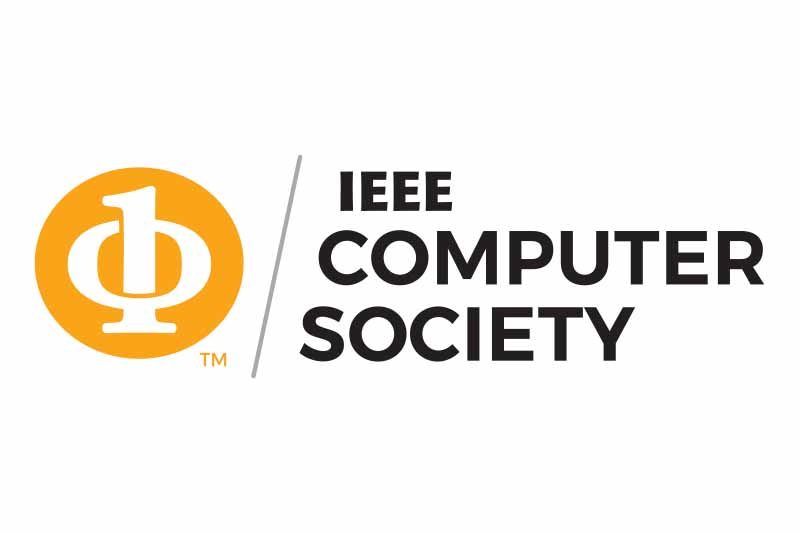
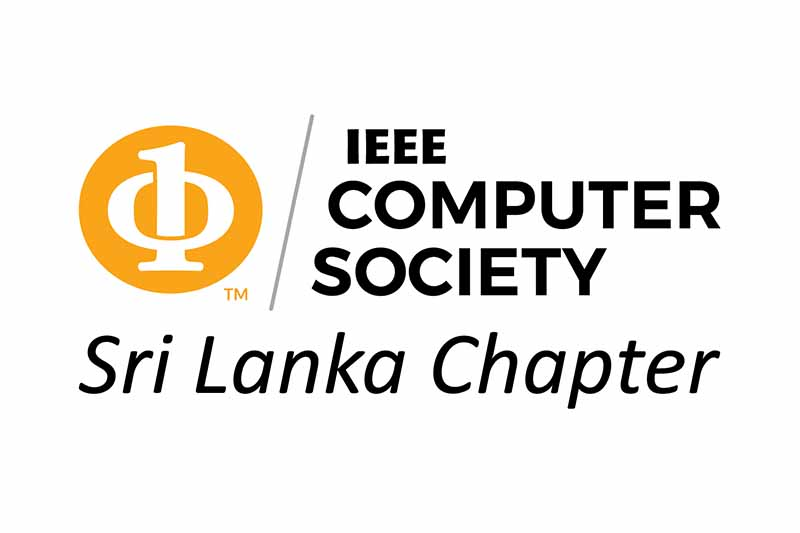
Partners updated

Changed region(s): [[0.0312, 0.2101, 0.9688, 0.7805]]

diff --git a/index.html b/index.html
@@ -4,7 +4,7 @@
 <head>
     <!-- Asela Pathirage -->
     <meta charset="utf-8" />
-    <title>IEEE Education Week - 2023</title>
+    <title>IEEE Education Week Sri Lanka - 2023</title>
     <meta name="viewport" content="width=device-width, initial-scale=1.0" />
     <meta name="description" content="IEEE Education Week - 2023" />
     <meta name="keywords" content="" />
@@ -171,7 +171,7 @@
                             data-textAlign="['center','center','center','center']" data-paddingtop="[0,0,0,0]"
                             data-paddingright="[0,0,0,0]" data-paddingbottom="[0,0,0,0]" data-paddingleft="[0,0,0,0]">
                             IEEE Education Week<br />
-                            2023
+                            Sri Lanka - 2023
                         </div>
 
                         <div class="text-center tp-caption size-20 text-white tp-static-layer"
@@ -280,38 +280,56 @@
                 <div class="spacer10"></div>
                 <div class="container">
                     <div class="row align-items-center justify-content-center">
-                        <div class="col-sm-12 mt-5 wow fadeInRight" data-wow-delay="0,5s">
-                            <h2 class="mt-3">Organized by</h2>
+                        <div class="col-md-9">
+                            <div class="row">
+                                <div class="col-sm-12 mt-5 wow fadeInRight" data-wow-delay="0.5s">
+                                    <h3 class="mt-3">Organized by</h3>
+                                </div>
+                                <div class="col-md-2  mb-sm-30 text-left wow fadeInLeft mb-2">
+                                    <a href="https://ieee.lk/" target="_blank"><img class=""
+                                            style="width:90%;border: 2px solid #006394;border-radius: 5px; "
+                                            src="images-event/misc/sac.jpg" alt="" />
+                                    </a>
+                                </div>
+                                <div class="col-md-2 mb-sm-30 text-left wow fadeInLeft mb-2" >
+                                    <a href="https://ieeeyp.lk/" target="_blank"><img class=""
+                                            style="width:90%;border: 2px solid #006394;border-radius: 5px; "
+                                            src="images-event/misc/yp.jpg" alt="" />
+                                    </a>
+                                </div>
+                                <div class="col-md-2 mb-sm-30 text-left wow fadeInLeft mb-2">
+                                    <a href="https://ieeewie.lk/" target="_blank"><img class=""
+                                            style="width:90%;border: 2px solid #006394;border-radius: 5px; "
+                                            src="images-event/misc/wie.jpg" alt="" />
+                                    </a>
+                                </div>
+                                <div class="col-md-2 mb-sm-30 text-left wow fadeInLeft mb-2" >
+                                    <a href="https://sight.ieee.org/" target="_blank"><img class=""
+                                            style="width:90%;border: 2px solid #006394;border-radius: 5px; "
+                                            src="images-event/misc/sight.jpg" alt="" />
+                                    </a>
+                                </div>
+                                <div class="col-md-2 mb-sm-30 text-left wow fadeInLeft mb-2" >
+                                    <a href="https://r10.ieee.org/srilanka-cs/" target="_blank"><img class=""
+                                            style="width:90%;border: 2px solid #006394;border-radius: 5px; "
+                                            src="images-event/misc/cs.jpg" alt="" />
+                                    </a>
+                                </div>
+                            </div>
                         </div>
-                        <div class="col-md-2  mb-sm-30 text-left wow fadeInLeft mb-2" style="width:80%;">
-                            <a href="https://ieee.lk/" target="_blank"><img class=""
-                                    style="width:90%;border: 2px solid #006394;border-radius: 5px; "
-                                    src="images-event/misc/sac.jpg" alt="" />
-                            </a>
-                        </div>
-                        <div class="col-md-2 mb-sm-30 text-left wow fadeInLeft mb-2" style="width:80%;">
-                            <a href="https://ieeeyp.lk/" target="_blank"><img class=""
-                                    style="width:90%;border: 2px solid #006394;border-radius: 5px; "
-                                    src="images-event/misc/yp.jpg" alt="" />
-                            </a>
-                        </div>
-                        <div class="col-md-2 mb-sm-30 text-left wow fadeInLeft mb-2" style="width:80%;">
-                            <a href="https://ieeewie.lk/" target="_blank"><img class=""
-                                    style="width:90%;border: 2px solid #006394;border-radius: 5px; "
-                                    src="images-event/misc/wie.jpg" alt="" />
-                            </a>
-                        </div>
-                        <div class="col-md-2 mb-sm-30 text-left wow fadeInLeft mb-2" style="width:80%;">
-                            <a href="https://sight.ieee.org/" target="_blank"><img class=""
-                                    style="width:90%;border: 2px solid #006394;border-radius: 5px; "
-                                    src="images-event/misc/sight.jpg" alt="" />
-                            </a>
-                        </div>
-                        <div class="col-md-2 mb-sm-30 text-left wow fadeInLeft mb-2" style="width:80%;">
-                            <a href="https://r10.ieee.org/srilanka-cs/" target="_blank"><img class=""
-                                    style="width:90%;border: 2px solid #006394;border-radius: 5px; "
-                                    src="images-event/misc/cs.jpg" alt="" />
-                            </a>
+                        <div class="col-md-3">
+                            <div class="row">
+                                <div class="col-sm-12 mt-5 wow fadeInRight" data-wow-delay="0.5s">
+                                    <h3 class="mt-3">In collaboration with</h3>
+                                </div>
+                                <div class="col-md-6  mb-sm-30 text-left wow fadeInLeft mb-2" >
+                                    <a href="https://web.facebook.com/sl2college/?_rdc=1&_rdr" target="_blank"><img class=""
+                                            style="width:90%;border: 2px solid #006394;border-radius: 5px; "
+                                            src="images-event/misc/sl2c.jpg" alt="" />
+                                    </a>
+                                </div>
+                            </div>
+
                         </div>
                     </div>
                 </div>
@@ -568,31 +586,7 @@
                             </div>
                             <!-- team close -->
                         </div>
-                        <div class="col-lg-3 col-md-6 mb-3">
-                            <!-- team member -->
-                            <div class="de-team-list">
-                                <div class="team-pic">
-                                    <img src="images-event/team/harsha.jpg" class="img-responsive img-rounded" alt="" />
-                                </div>
-                                <div class="team-desc img-rounded">
-                                    <h3>Dr. Harsha Subasinghe</h3>
-                                    <p class="lead">President & CEO | Codegen
-                                    </p>
-                                    <div class="small-border"></div>
-                                    <p>Founder CEO | Vega Innovations
 
-                                    </p>
-
-                                    <!-- <div class="social">
-                                        <a href="#"><i class="fa fa-facebook fa-lg"></i></a>
-                                        <a href="#"><i class="fa fa-twitter fa-lg"></i></a>
-                                        <a href="#"><i class="fa fa-google-plus fa-lg"></i></a>
-                                        <a href="#"><i class="fa fa-skype fa-lg"></i></a>
-                                    </div> -->
-                                </div>
-                            </div>
-                            <!-- team close -->
-                        </div>
                     </div>
                     <div class="clearfix"></div>
 
@@ -648,12 +642,12 @@
                                     <li>
                                         <div>
                                             <h3 class="timeh">Sessions</h3>
-                                            <p class="timep"><b>1. Beyond the Classroom</b> - A Guide for teachers to
-                                                prepare their students for higher education
+                                            <p class="timep"><b>1. Beyond the Classroom</b> - A guide for teachers to
+                                                prepare their students for higher education.
                                                 <b>(9.30 AM - 12.30PM)</b>
                                                 <br>
-                                                <b>2. IEEE Day Celebration</b> - Included with the launch of SLI Career
-                                                Compass Website and Handbook.
+                                                <b>2. IEEE Education Week Celebration</b> - Including the Launch of the
+                                                IEEE Sri Lanka Inspire Career Compass Website and Handbook
                                                 <b>(4.00PM-6.00PM)</b>
                                             </p>
                                         </div>
@@ -706,15 +700,17 @@
                                                 <b>(10.00 AM - 11.00 PM)</b>
                                                 <br>
                                                 <b>2. Personal Branding /Motivational session</b>
-                                                <b>  (11.30 AM-12.30 PM)
+                                                <b> (11.30 AM-12.30 PM)
                                                 </b>
                                                 <br>
-                                                <b>3. Entertainment Industry</b> (Music Technologies, CGI, Motion Capture) with interactive Q&A
-                                                <b>   (1.30 PM-2.30 PM)
+                                                <b>3. Entertainment Industry</b> (Music Technologies, CGI, Motion
+                                                Capture) with interactive Q&A
+                                                <b> (1.30 PM-2.30 PM)
                                                 </b>
                                                 <br>
-                                                <b>4. Panel Discussion</b>Harnessing Technological Innovations for Sustainable Economic Recovery and Resilience
-                                                <b>   (3.00 PM-4.30 PM)
+                                                <b>4. Panel Discussion</b>Harnessing Technological Innovations for
+                                                Sustainable Economic Recovery and Resilience
+                                                <b> (3.00 PM-4.30 PM)
                                                 </b>
                                             </p>
                                         </div>
@@ -725,7 +721,7 @@
                                             <p class="timep">
                                                 ★ Tech Stalls<br />
                                                 ★ IEEE Technical Chapter Stalls<br />
-                                               
+
                                             </p>
                                         </div>
                                     </li>
@@ -799,9 +795,11 @@
                         </div>
 
                         <div class="col-md-12 text-center">
-                            <h3>Echo System Partner</h3>
+                            <h3>Ecosystem Partner</h3>
                             <div class="spacer-single"></div>
-                            <a href="" target="_blank"><img width="30%" src="images-event/logo/TRACE.png" alt=""
+                            <a href="" target="_blank"><img width="20%" src="images-event/logo/TRACE.png" alt=""
+                                    class="grey-hover" /></a>
+                            <a href="" target="_blank"><img width="20%" src="images-event/logo/fitis.png" alt=""
                                     class="grey-hover" /></a>
 
                             <div class="spacer-double"></div>
@@ -811,6 +809,15 @@
                             <a href="" target="_blank"><img width="30%" src="images-event/logo/1.png" alt=""
                                     class="grey-hover" /></a>
                             <a href="" target="_blank"><img width="30%" src="images-event/logo/stem.png" alt=""
+                                    class="grey-hover" /></a>
+                            <div class="spacer-double"></div>
+
+                            <h3>Digital Media Partner</h3>
+                            <a href="" target="_blank"><img width="30%" src="images-event/logo/art.png" alt=""
+                                    class="grey-hover" /></a>
+
+                            <h3>Knowledge Partner</h3>
+                            <a href="" target="_blank"><img width="30%" src="images-event/logo/slass.png    " alt=""
                                     class="grey-hover" /></a>
 
                         </div>
@@ -947,17 +954,7 @@
                         <div class="col-md-8 offset-md-2 wow fadeInUp mt-5">
                             <!-- <form name="contactForm" id="contact_form" method="post" action="email.php"> -->
                             <div class="row ">
-                                <div class="col-md-12 text-center">
-                                    <div class="col-md-6 text-center" style="margin: auto;">
-                                        <h4>Dhammika Marasinghe</h4>
-                                        <p>
-                                            Vice Chair - IEEE Sri Lanka Section<br />
-                                            dhammikam@ieee.org<br />
-                                            (+94) 77 077 6737
-                                        </p>
-                                    </div>
-                                </div>
-                                <div class="col-md-6 text-center">
+                                <div class="col-md-6 text-center mb-3">
                                     <div>
                                         <h4>Anjana Dodampe</h4>
                                         <p>
@@ -967,7 +964,7 @@
                                         </p>
                                     </div>
                                 </div>
-                                <div class="col-md-6 text-center">
+                                <div class="col-md-6 text-center mb-3">
                                     <div>
                                         <h4>Michelle Perera</h4>
                                         <p>
@@ -977,6 +974,27 @@
                                         </p>
                                     </div>
                                 </div>
+                                <div class="col-md-6 text-center mb-3">
+                                    <div>
+                                        <h4>Dimantha Senanayake</h4>
+                                        <p>
+                                            Logistics Lead - IEEE Techverse Sri Lanka<br />
+                                            dimanthaysena@gmail.com<br />
+                                            (+94) 70 220 2430
+                                        </p>
+                                    </div>
+                                </div>
+                                <div class="col-md-6 text-center mb-3">
+                                    <div>
+                                        <h4>Thimeth Perera</h4>
+                                        <p>
+                                            Vice Chair - IEEE SLInspire<br />
+                                            thimethperera39@gmail.com<br />
+                                            (+94) 71 639 0044
+                                        </p>
+                                    </div>
+                                </div>
+
 
                             </div>
                             <!-- </form> -->
